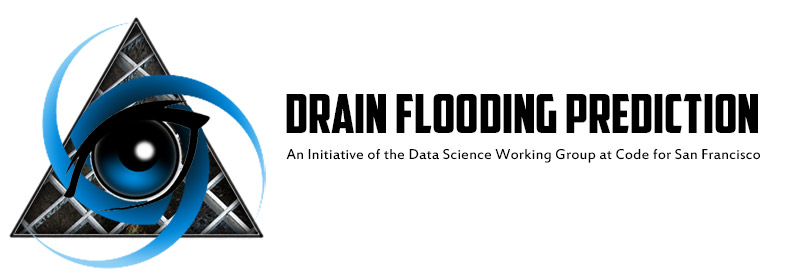
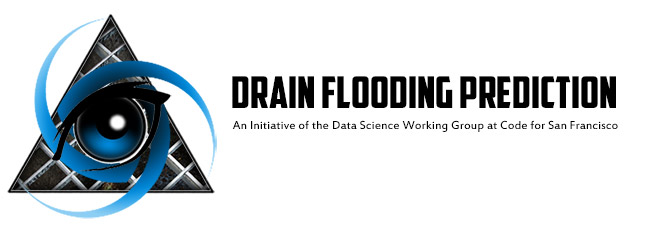
Updated parent README + shrunk an image.

diff --git a/README.md b/README.md
@@ -23,7 +23,7 @@ The DSWG's initiatives are centered on building data science components for CfSF
 + [ParkSafe GIS coordinate realignment (w/street paths) >>](#)
 + [SF's budget allocations/visualization: Measuring social impact >>](https://github.com/RocioSNg/SF_brigade_impact_gov)
 + [Interactive visualization of SF's building emissions and energy use >>](#)
-+ [MarbleTree: Geo-aggregating mental health resource data >>](https://github.com/sfbrigade/data-science-wg/projects-in-this-repo/Marble-Tree_Mental-Health)
-+ [Exploratory analyses upon 311 call data >>](https://github.com/sfbrigade/data-science-wg/projects-in-this-repo/311_Exploratory-Analyses)
-+ [Adopt-a-Drain: Predicting flooded drains (per drain, zip, and/or day) >>](https://github.com/sfbrigade/data-science-wg/projects-in-this-repo/Drain-Flooding_Prediction)
++ [MarbleTree: Geo-aggregating mental health resource data >>](https://github.com/sfbrigade/data-science-wg/tree/master/projects-in-this-repo/Marble-Tree_Mental-Health)
++ [Exploratory analyses upon 311 call data >>](https://github.com/sfbrigade/data-science-wg/tree/master/projects-in-this-repo/311_Exploratory-Analyses)
++ [Adopt-a-Drain: Predicting flooded drains (per drain, zip, and/or day) >>](https://github.com/sfbrigade/data-science-wg/tree/master/projects-in-this-repo/Drain-Flooding_Prediction)
 
